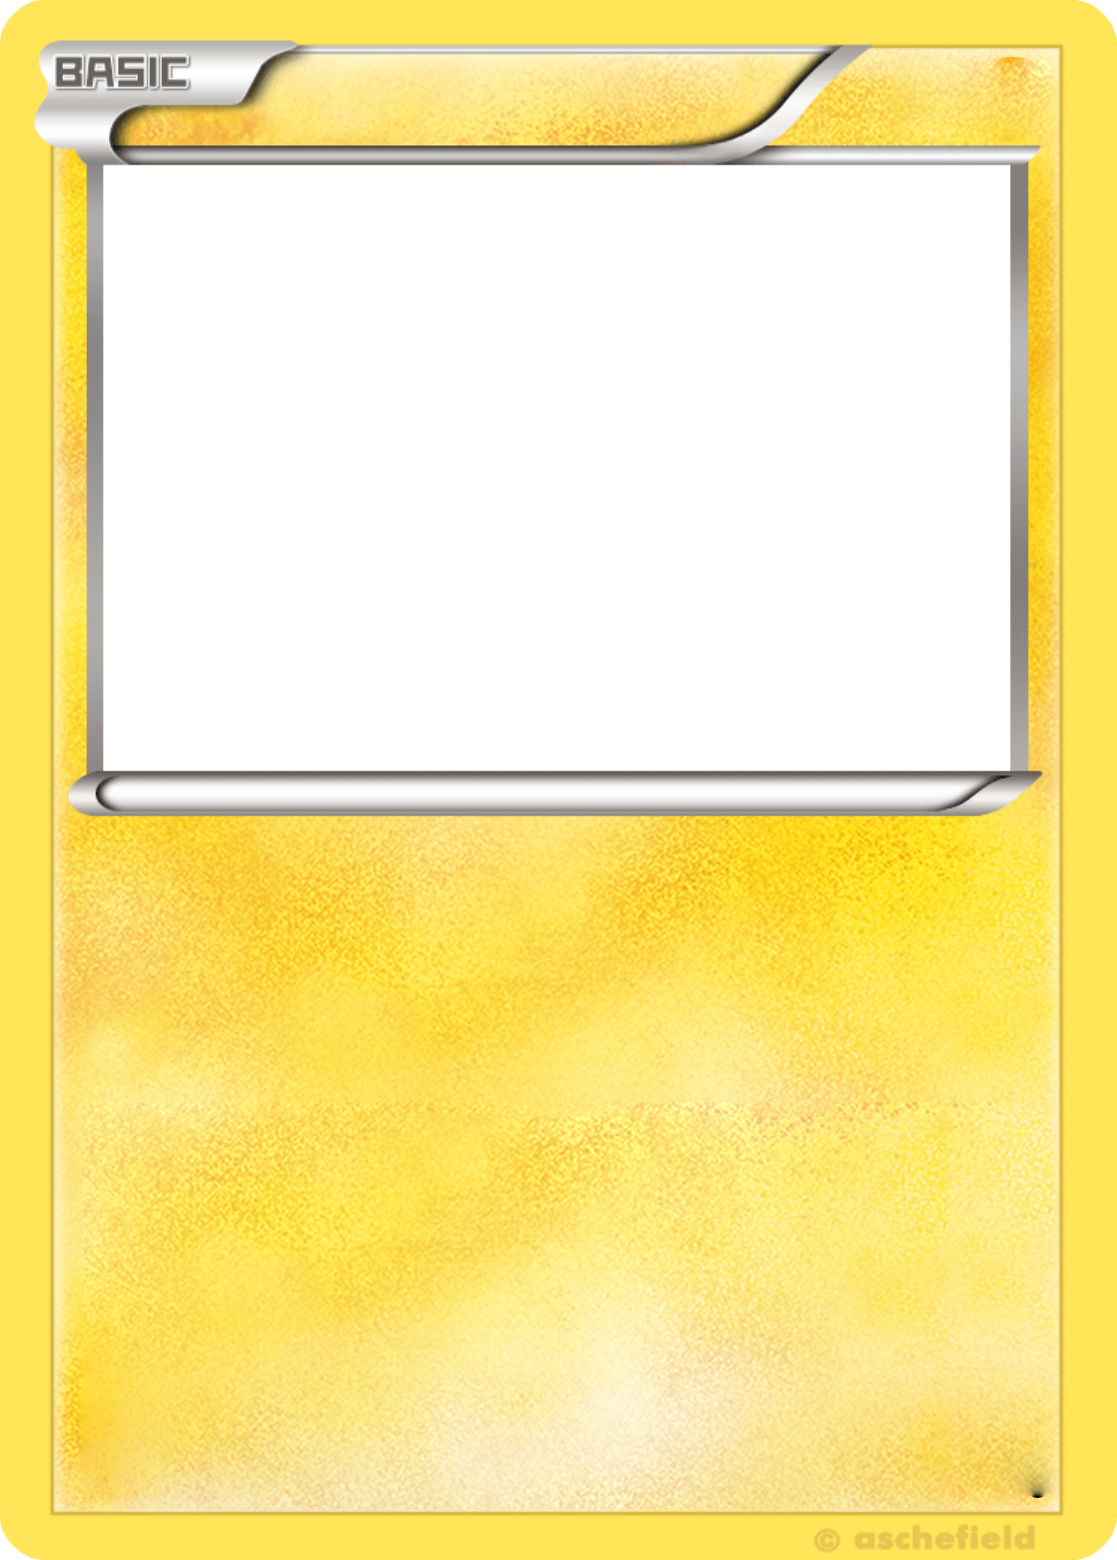
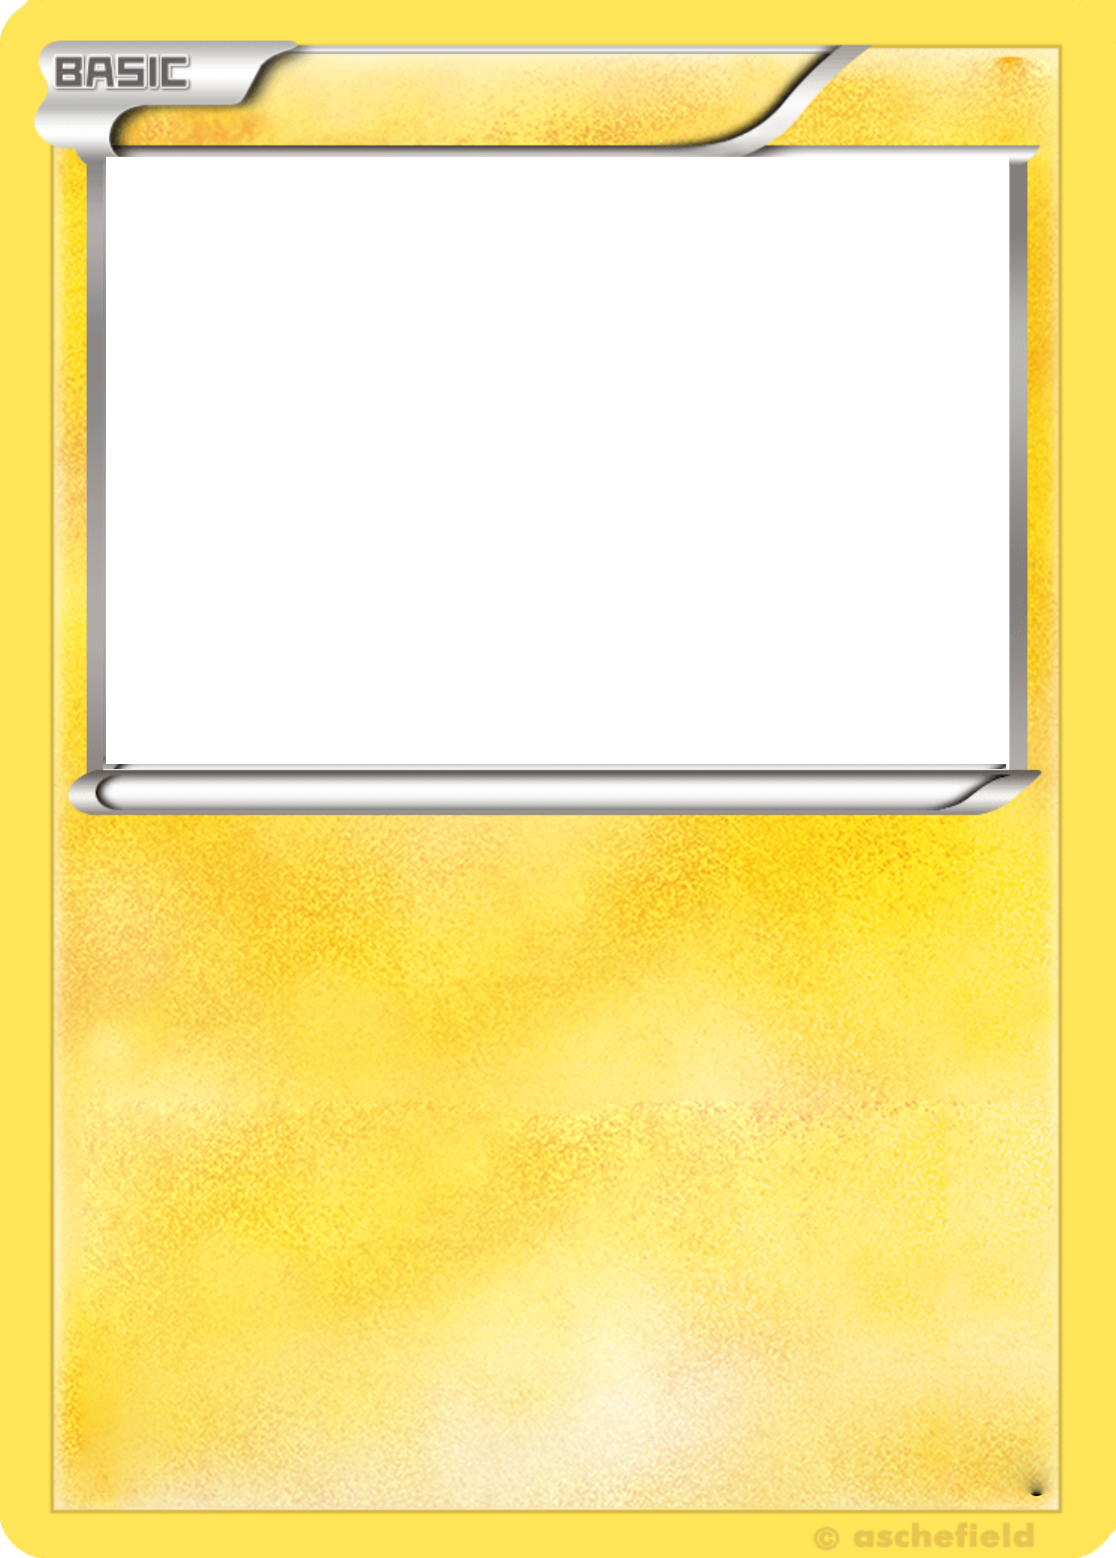
fix card-image-front rendering, by modifying html structure of triton-card:
now img is render first then border is on top of the img

Changed region(s): [[0.0914, 0.0924, 0.8835, 0.1232], [0.9749, 0.0, 1.0, 0.0308], [0.0914, 0.4621, 0.1219, 0.4929]]

diff --git a/src/card/card-structure-template.html b/src/card/card-structure-template.html
@@ -13,10 +13,10 @@
       <div class="card-inner">
         <!-- Card Front -->
         <div class="card-front">
+          <img id="img-card-front" src="card-front.webp" alt="Image of the card" />
           <div class="card-front-background">
             <img id="img-card-border" src="./assets/default-card-base.png" alt="Card border">
           </div>
-          <img id="img-card-front" src="card-front.webp" alt="Image of the card" />
           <p class="name">Name of the Card</p>
           <p class="rank">3</p>
           <p class="type">structure</p>
@@ -33,7 +33,20 @@
     <!-- tritonCard CSS Start -->
     <style>
       /* From w3c */
+      :root {
+      /*define the card width*/
+      --card-width: 300px; 
+      /* card-height is calculated based on width, 3/ 4 ratio */
+      --card-height: calc(var(--card-width) * 4 / 3);
+      /* card-image, the face of the card dimension */
+      --card-image-width: calc(var(--card-width));
+      --card-image-height: calc(var(--card-width) * 4/ 3 );
+      /*  */
+      --card-font-size : 1em;
+      background-color: pink;
+    }
       @import url('https://fonts.googleapis.com/css2?family=Source+Sans+3:ital,wght@0,200..900;1,200..900&display=swap');
+
 
       .card {
         font-family: "Source Sans 3", sans-serif;
@@ -44,22 +57,22 @@
         font-size: var(--card-font-size);
         background-color: transparent;
         aspect-ratio: auto 3/4;
-        width: var(--card-wdith);
+        width: var(--card-width);
         perspective: 1000px; /* Remove this if you don't want the 3D effect */
       }
 
       /* This container is needed to position the front and back side */
       .card-inner {
-        position: relative;
+        position: absolute;
         width: 100%;
         height: 100%;
-        border: 3px solid cyan; /* change the style of border when needed */
+        border: 3px solid cyan; 
+        /* change the style of border when needed */
         text-align: center;
         transition: transform 0.8s;
         transform-style: preserve-3d;
       }
 
-      /* Remeber to remove this and make a function to flip the card... */
       /* Do an horizontal flip when you move the mouse over the flip box container */
       .card:hover .card-inner {
         transform: rotateY(180deg);
@@ -81,7 +94,7 @@
         top: 0;
         img {
           aspect-ratio: auto 3/4;
-          width: var(--card-wdith);
+          width: var(--card-width);
           height: var(--card-height);
         }
       }
@@ -90,12 +103,8 @@
         color: red;
 
         #img-card-front{
-          position: absolute;
-          width: calc(var(--card-wdith) * 0.87);
-          height: calc(var(--card-wdith) * 0.52);
-          top: 10%;
-          left: 6%;
-          /* height: var(--card-height); */
+          width: var(--card-image-width);
+          height: var(--card-image-height); 
         };
 
         .name {
@@ -119,6 +128,15 @@
           left: 10%;
           bottom: 24%;
         };
+      }
+
+      /* Style the back side (same fall back)*/
+      .card-back {
+        background-color: blue;
+        color: red;
+        font-size: 11px;
+        transform: rotateY(180deg);
+      };
     </style>
     <!-- tritonCard CSS ends -->
   </body>

diff --git a/src/card/triton-card.js b/src/card/triton-card.js
@@ -53,10 +53,10 @@ class TritonCard extends HTMLElement {
     div.innerHTML = `
     <div class="card-inner">
       <div class="card-front">
+        <img id = "img-card-front"  alt="Image of the card">
         <div class="card-front-background">
           <img id='img-card-border' src="default_card_border_path"  alt="Card border">
         </div>
-        <img id = "img-card-front"  alt="Image of the card">
         <p class="name">name</p>
         <p class="rank">rank</p>
         <p class="type">type</p>
@@ -84,7 +84,7 @@ class TritonCard extends HTMLElement {
         font-size: var(--card-font-size);
         background-color: transparent;
         aspect-ratio: auto 3/4;
-        width: var(--card-wdith);
+        width: var(--card-width);
         perspective: 1000px; /* Remove this if you don't want the 3D effect */
       }
 
@@ -120,7 +120,7 @@ class TritonCard extends HTMLElement {
         top: 0;
         img {
           aspect-ratio: auto 3/4;
-          width: var(--card-wdith);
+          width: var(--card-width);
           height: var(--card-height);
         }
       }
@@ -129,12 +129,8 @@ class TritonCard extends HTMLElement {
         color: black;
 
         #img-card-front{
-          position: absolute;
-          width: calc(var(--card-wdith) * 0.87);
-          height: calc(var(--card-wdith) * 0.52);
-          top: 10%;
-          left: 6%;
-          /* height: var(--card-height); */
+          width: var(--card-image-width);
+          height: var(--card-image-height);
         };
 
         .name {

diff --git a/src/card/demo.html b/src/card/demo.html
@@ -9,14 +9,9 @@
     <!-- <script src="../scripts/card-system.js" defer></script> --> 
     <style>
       body { display: flex; flex-wrap: wrap; gap: 20px; padding: 20px; }
-      /* Define the global --card-width CSS variable, which is used by the CSS in triton-card.js */
-      :root {
-        --card-wdith: 300px; /*define the card width*/
-        --card-height: calc(var(--card-wdith) * 4 / 3);
-        --card-image-width: calc(var(var(--card-wdith)* 0.95));
-        --card-font-size : 1em;
-      }
-    </style>
+      </style>
+    <!-- /* Define the global --card-width CSS variable, which is used by the CSS in triton-card.js */ -->
+    <link href="./triton-card.css" rel="stylesheet">
   </head>
   <body>
     <h1>TritonCard Component Test</h1>

diff --git a/src/card/triton-card.css b/src/card/triton-card.css
@@ -1,0 +1,14 @@
+/* It is the variable for triton cards 
+  import/copy the following code when using <triton-card> */
+
+  :root {
+  /*define the card width*/
+  --card-width: 300px; 
+  /* card-height is calculated based on width, 3/ 4 ratio */
+  --card-height: calc(var(--card-width) * 4 / 3);
+  /* card-image, the face of the card dimension */
+  --card-image-width: calc(var(--card-width));
+  --card-image-height: calc(var(--card-width));
+  /*  */
+  --card-font-size : 1em;
+}
